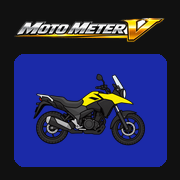
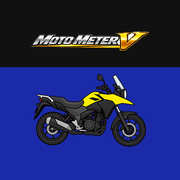
Ver.1.2: アイコンを丸く切り抜ける作りに変更（ロゴ＋バイクの絵、案A）
Claude-Session: https://claude.ai/code/session_019hFy8vLqtD83fZn2Kxx63U

diff --git a/index.html b/index.html
@@ -177,7 +177,7 @@ body{background:#000;color:var(--ink);font-family:var(--f-ui);overflow:hidden;us
   </div></div>
   <div id="toast"></div>
   <div class="bar">
-    <span class="ver">Ver 1.1</span>
+    <span class="ver">Ver 1.2</span>
     <button class="bb" id="zero" type="button">水平リセット</button>
     <span id="zst">水平：未設定</span>
     <button class="bb" id="rev" type="button">上下反転</button>
@@ -190,7 +190,7 @@ body{background:#000;color:var(--ink);font-family:var(--f-ui);overflow:hidden;us
 
 <div class="op" id="op" role="dialog" aria-label="ご利用の前に">
   <img class="lg" alt="Moto Meter V" src="assets/logo.webp">
-  <div class="y">モトメーター V　Ver 1.1</div>
+  <div class="y">モトメーター V　Ver 1.2</div>
   <div class="land">横画面専用アプリです<span>スマホを横向きにしてお使いください</span></div>
 
   <div class="warn">

diff --git a/sw.js b/sw.js
@@ -1,4 +1,4 @@
-const CACHE="moto-meter-v-v1.1";
+const CACHE="moto-meter-v-v1.2";
 const SHELL=["./","index.html","manifest.webmanifest","icon-192.png","icon-512.png","apple-touch-icon.png","assets/logo.webp","assets/bike_yellow.webp","assets/bike_red.webp","assets/bike_black.webp","assets/bike_blue.webp","assets/bike_silver.webp","fonts/mmv-seg7.woff"];
 self.addEventListener("install",e=>{e.waitUntil(caches.open(CACHE).then(c=>c.addAll(SHELL)));self.skipWaiting()});
 self.addEventListener("activate",e=>{e.waitUntil(caches.keys().then(ks=>Promise.all(ks.filter(k=>k.startsWith("moto-meter-v-")&&k!==CACHE).map(k=>caches.delete(k)))));self.clients.claim()});

diff --git a/CLAUDE.md b/CLAUDE.md
@@ -5,7 +5,7 @@ Moto Meter Samlet（moto-samlet）とは別のアプリ。Samlet はそのまま
 
 - 公開先: https://1970otochan.github.io/moto-meter-v/ （main に push すると GitHub Pages が自動で公開）
 - 公開用のファイル：index.html, manifest.webmanifest, sw.js, icon-192.png, icon-512.png, apple-touch-icon.png, assets/logo.webp, assets/bike_yellow/red/black/blue/silver.webp, fonts/mmv-seg7.woff, fonts/OFL.txt
-- アイコンは仮（未決定）
+- アイコン（Ver 1.2）：上が黒い縁にロゴ、下が青い液晶に黄色のバイクの絵（案A）。ほかのアプリと同じく丸く切り抜ける作り（manifest の purpose は "any maskable"、大事な部分は中央80%に収める）
 
 ## 守ること
 - 純正メーター（スズキ）のデザインを忠実に再現しない。「SUZUKI」「V-STROM」などの商標を入れない
